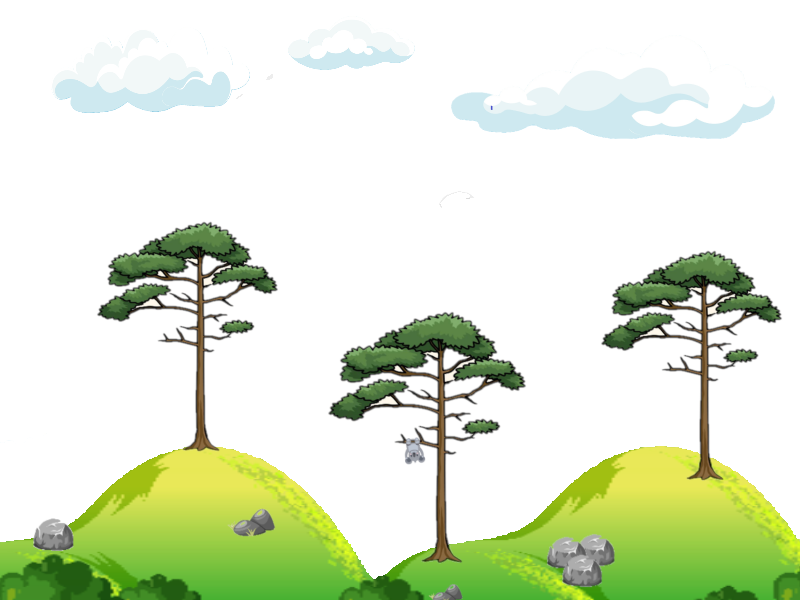
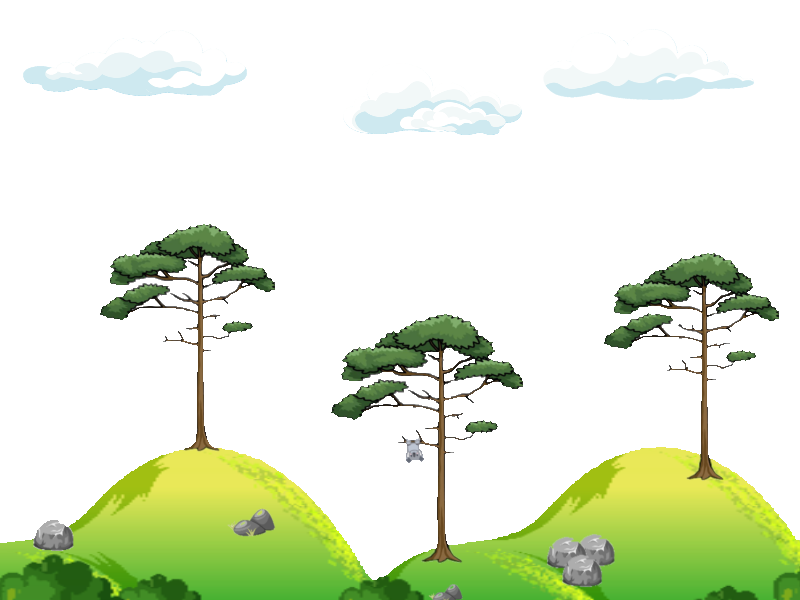
updated maps

diff --git a/javaprojects/client/src/main/java/minigames/client/krumgame/KrumGame.java b/javaprojects/client/src/main/java/minigames/client/krumgame/KrumGame.java
@@ -136,12 +136,14 @@ public class KrumGame {
      */
     private void initializeLevels() {
         levels = new ArrayList<KrumLevel>();
-        KrumLevel chameleon = new KrumLevel("chameleon.png", null, 235, 0, 600, 0);
-        KrumLevel ropetest = new KrumLevel("ropetestmap.png", null, 235, 0, 600, 0);
-        KrumLevel cavetest = new KrumLevel("cave_test_2.png", "cave_test_2_mask.png", 300, 500, 680, 110);
-        levels.add(chameleon);
-        levels.add(ropetest);
-        levels.add(cavetest);    
+        KrumLevel aussieBush = new KrumLevel("Maps/Aussie Bush.png", null, 235, 0, 600, 0);
+        KrumLevel city = new KrumLevel("Maps/City.png", null, 235, 100, 600, 100);
+        KrumLevel mine = new KrumLevel("Maps/Mine.png", null, 375, 400, 425, 400);
+        KrumLevel moon = new KrumLevel("Maps/Moon.png", null, 50, 370, 660, 410);
+        levels.add(aussieBush);
+        levels.add(city);
+        levels.add(mine);  
+        levels.add(moon);  
         setActiveLevel(0);           
     }
 
